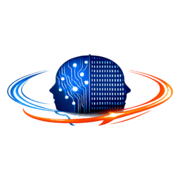
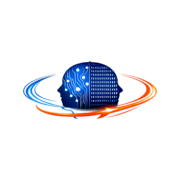
style: update branding assets
Replace favicon assets with new versions featuring the company emblem on a circular white background.

Changed region(s): [[0.0278, 0.3056, 0.9722, 0.7222]]

diff --git a/index.html b/index.html
@@ -4,11 +4,11 @@
     <meta charset="UTF-8" />
     <meta name="viewport" content="width=device-width, initial-scale=1.0" />
     <title>Cognitive Edge LTD | Intelligence Beyond Reality</title>
-    <!-- Favicon & Browser Tab Icons (Cognitive Edge LTD Company Logo with White Background) -->
+    <!-- Favicon & Browser Tab Icons (Cognitive Edge LTD Emblem centered on circular white canvas) -->
     <link rel="icon" type="image/x-icon" href="/favicon.ico" />
     <link rel="icon" type="image/png" sizes="32x32" href="/favicon-32x32.png" />
     <link rel="icon" type="image/png" sizes="16x16" href="/favicon-16x16.png" />
-    <link rel="icon" type="image/png" sizes="192x192" href="/favicon-white-bg.png" />
+    <link rel="icon" type="image/png" sizes="192x192" href="/favicon-circle-white.png" />
     <link rel="apple-touch-icon" sizes="180x180" href="/apple-touch-icon.png" />
     <link rel="shortcut icon" href="/favicon.ico" />
     <meta name="description" content="Cognitive Edge LTD specializes in creating immersive digital twins, virtual reality experiences, and interior design visualization." />

diff --git a/public/brochure-viewer.html b/public/brochure-viewer.html
@@ -7,7 +7,7 @@
   <link rel="icon" type="image/x-icon" href="/favicon.ico" />
   <link rel="icon" type="image/png" sizes="32x32" href="/favicon-32x32.png" />
   <link rel="icon" type="image/png" sizes="16x16" href="/favicon-16x16.png" />
-  <link rel="icon" type="image/png" sizes="192x192" href="/favicon-white-bg.png" />
+  <link rel="icon" type="image/png" sizes="192x192" href="/favicon-circle-white.png" />
   <link rel="shortcut icon" href="/favicon.ico" />
   <style>
     * {
